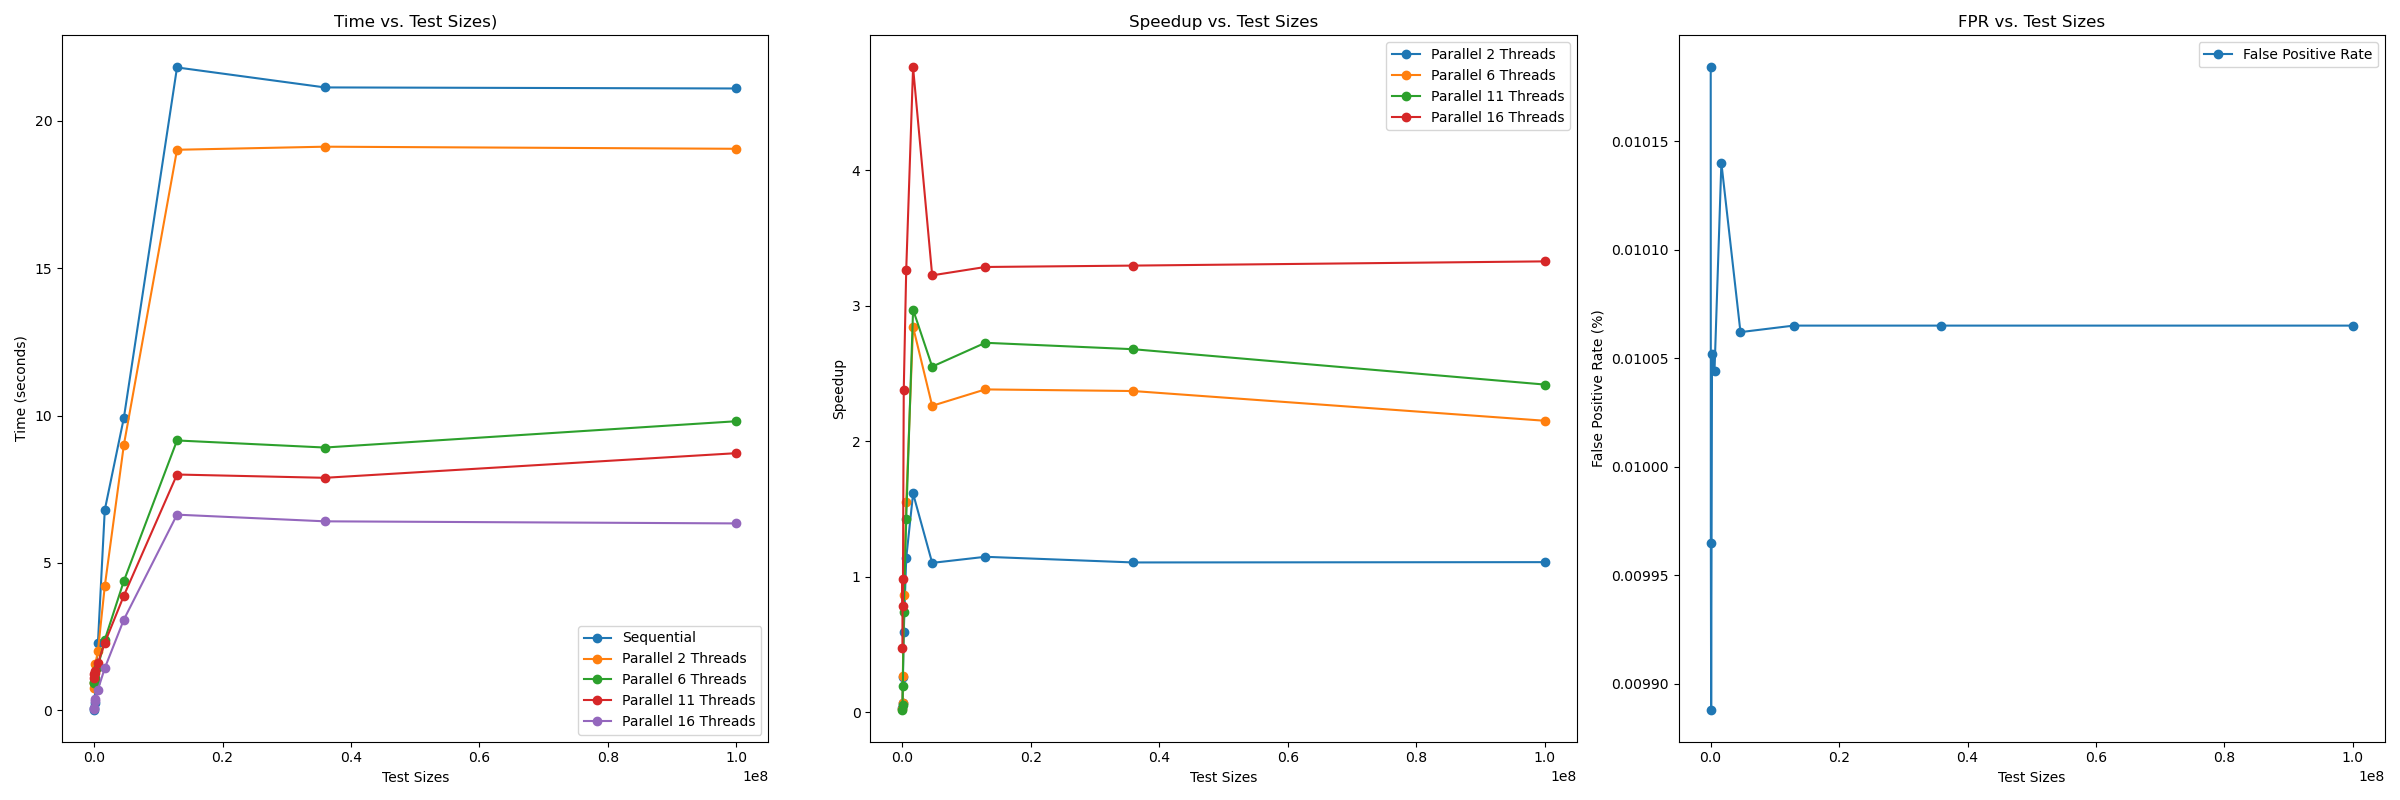
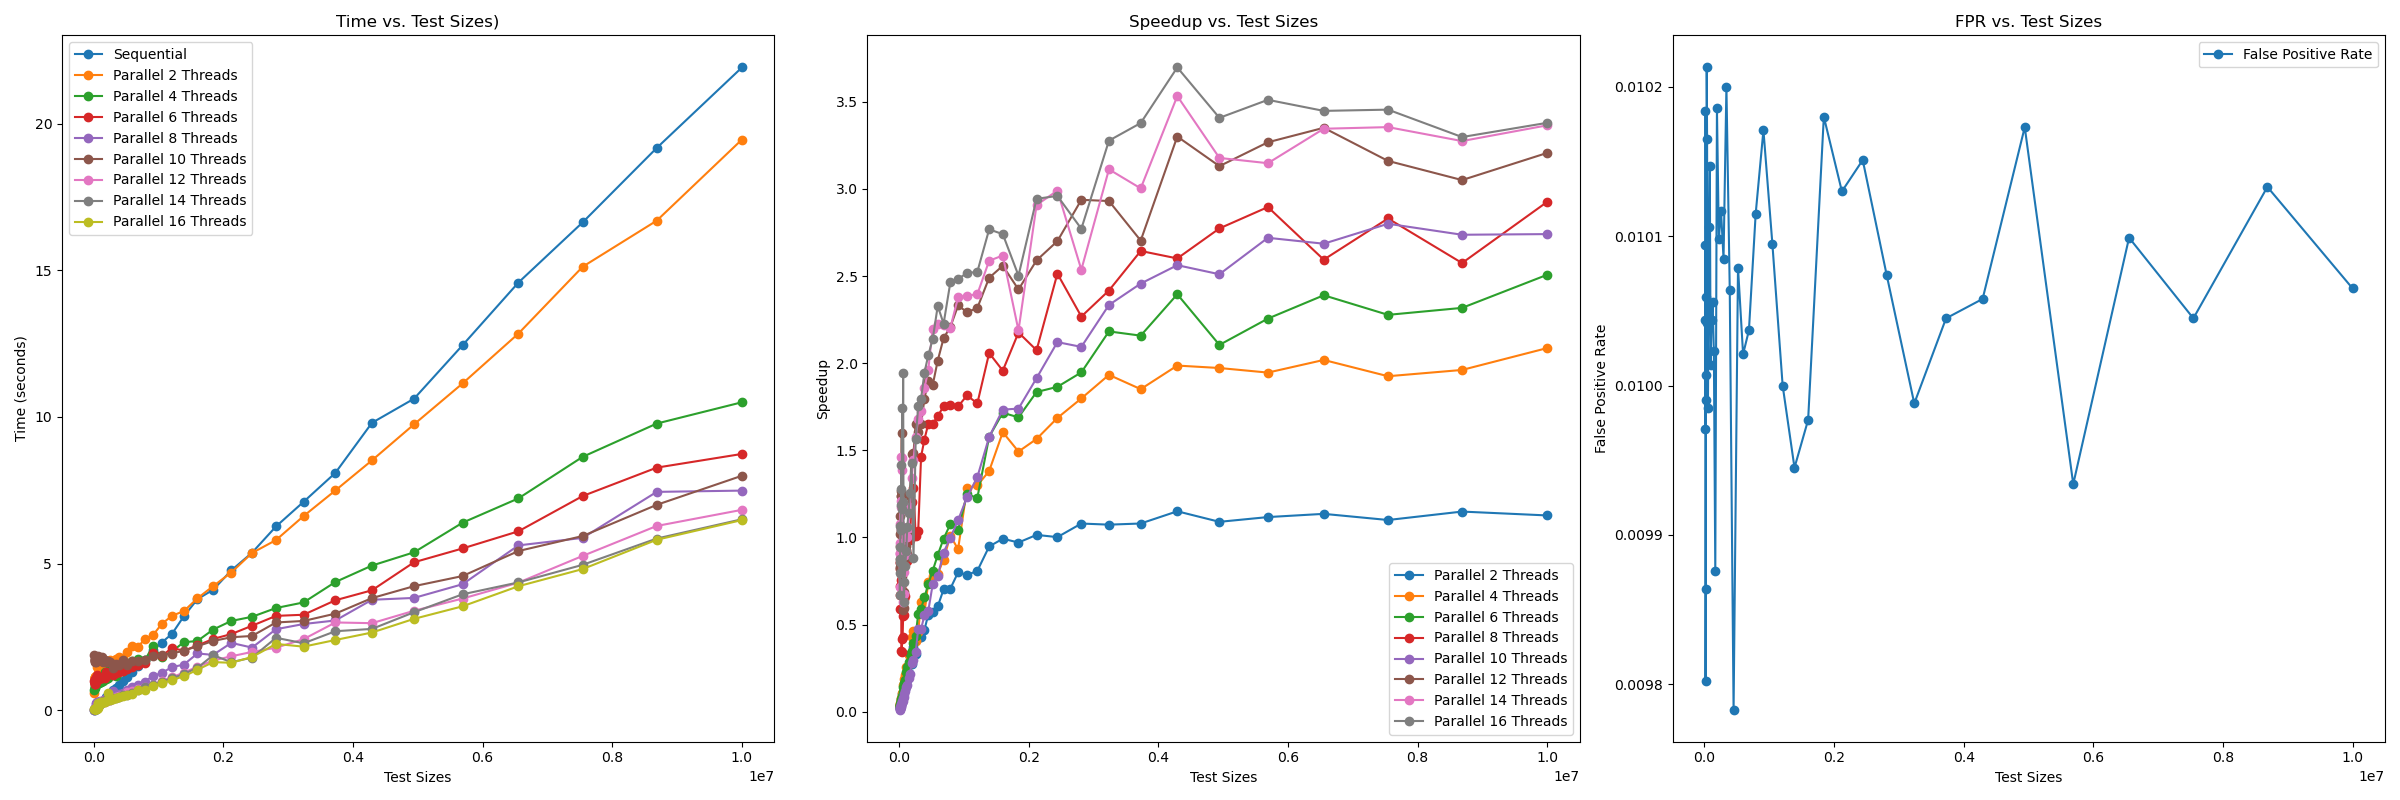
final bloom filter

diff --git a/test.py b/test.py
@@ -9,10 +9,11 @@ import numpy as np
 
 # Number of cores/threads
 n_threads = os.cpu_count()  # Number of cores/threads
-test_threads = np.linspace(2, n_threads, 4, dtype=int)  # Number of threads to test
+test_threads = np.linspace(2, n_threads, 8, dtype=int)  # Number of threads to test
 
 # Number of emails to test
-test_sizes = np.logspace(4, 8, 10, base=10, dtype=int)  # Number of emails to test
+test_sizes = np.linspace(1e4, 1e8, 50, dtype=int)  # Number of emails to test
+# test_sizes = np.logspace(4, 7, 50, base=10, dtype=int)  # Number of emails to test
 
 # Bloom Filter
 fpr = 0.01  # False Positive Rate
